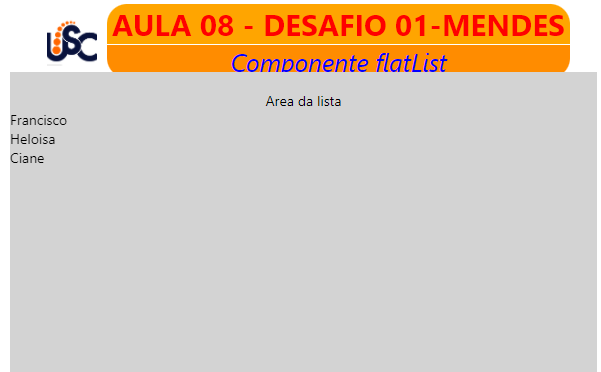
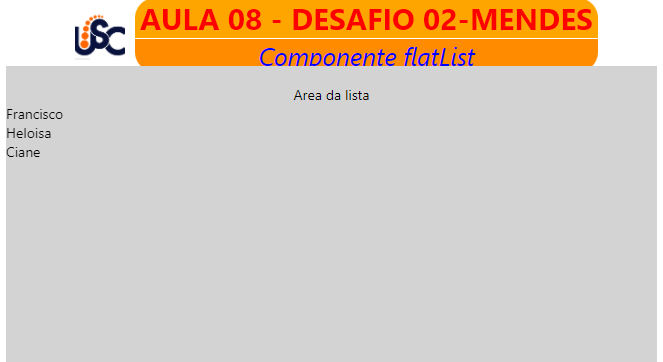
Componente Flat List.

Changed region(s): [[0.0, 0.0, 1.0, 1.0], [0.4193, 0.2431, 0.5691, 0.3039]]

diff --git a/Flat_List/App.js b/Flat_List/App.js
@@ -105,7 +105,7 @@ class App extends Component {
           <Image source={require('./image/logo.PNG')}
             style={{ width: 50, height: 50, marginHorizontal: 5 }} />
           <View>
-            <Text style={estilos.titulo}>AULA 08 - DESAFIO 01-MENDES</Text>
+            <Text style={estilos.titulo}>AULA 08 - DESAFIO 02-MENDES</Text>
             <Text style={estilos.sub_titulo}>Componente flatList</Text>
           </View >
         </View >
@@ -175,14 +175,12 @@ import React, { Component } from 'react';
 import { StyleSheet, Text, View, Image, FlatList } from 'react-native';
 
 class App extends Component {
-  constructor(props)
-  {
+  constructor(props) {
     super(props);
     this.mostra_dados = this.mostra_dados.bind(this);
   };
-  mostra_dados({item})
-  {
-    return(
+  mostra_dados({ item }) {
+    return (
       <View>
         <Text>{item.nome}</Text>
         <Text>{item.email}</Text>
@@ -193,12 +191,18 @@ class App extends Component {
   }
   render() {
     let fonte_de_dados = [
-      {nome: 'Francisco Mendes', email: 'Franciscofdsmh@gmail.com',
-         curso:'Sistema de Informação', foto: './image/pessoa1.PNG'},
-      {nome: 'Fabiana Carraro', email: 'fabiana@fabiana.com.br',
-         curso: 'Redes de Computadores', foto: './image/pessoa2.PNG'},
-      {nome: 'Fernando Azambuja', email: 'fernando@fernando.com.br', 
-         curso: 'Tecnologia da Informação', foto: './image/pessoa3.PNG'}   
+      {
+        nome: 'Francisco Mendes', email: 'Franciscofdsmh@gmail.com',
+        curso: 'Sistema de Informação', foto: './image/pessoa1.PNG'
+      },
+      {
+        nome: 'Fabiana Carraro', email: 'fabiana@fabiana.com.br',
+        curso: 'Redes de Computadores', foto: './image/pessoa2.PNG'
+      },
+      {
+        nome: 'Fernando Azambuja', email: 'fernando@fernando.com.br',
+        curso: 'Tecnologia da Informação', foto: './image/pessoa3.PNG'
+      }
     ];
     return (
       <View style={estilos.area_fundo}>
@@ -206,7 +210,7 @@ class App extends Component {
           <Image source={require('./image/logo.PNG')}
             style={{ width: 50, height: 50, marginHorizontal: 5 }} />
           <View>
-            <Text style={estilos.titulo}>AULA 08 - DESAFIO 01-MENDES</Text>
+            <Text style={estilos.titulo}>AULA 08 - DESAFIO 03-MENDES</Text>
             <Text style={estilos.sub_titulo}>Componente flatList</Text>
           </View >
         </View >
@@ -299,8 +303,8 @@ class App extends Component {
          curso:'Sistema de Informação', foto: './image/pessoa1.PNG'},
       {nome: 'Fabiana Carraro', email: 'fabiana@fabiana.com.br',
          curso: 'Redes de Computadores', foto: './image/pessoa2.PNG'},
-      {nome: 'Fernando Azambuja', email: 'fernando@fernando.com.br', 
-         curso: 'Tecnologia da Informação', foto: './image/pessoa3.PNG'}  
+      {nome: 'Fernando Azambuja', email: 'fernando@fernando.com.br',
+         curso: 'Tecnologia da Informação', foto: './image/pessoa3.PNG'}
     ];
     return (
       <View style={estilos.area_fundo}>
@@ -308,7 +312,7 @@ class App extends Component {
           <Image source={require('./image/logo.PNG')}
             style={{ width: 50, height: 50, marginHorizontal: 5 }} />
           <View>
-            <Text style={estilos.titulo}>AULA 08 - DESAFIO 01-MENDES</Text>
+            <Text style={estilos.titulo}>AULA 08 - DESAFIO 03.1-MENDES</Text>
             <Text style={estilos.sub_titulo}>Componente flatList</Text>
           </View >
         </View >
@@ -373,11 +377,11 @@ const estilos = StyleSheet.create({
   }
 });
 export default App;
-*///---------------------------------------------------------------------------
+///---------------------------------------------------------------------------
 
-///----------------------------------------------------------------------------
+*///----------------------------------------------------------------------------
 //Componente FlatList....Desafio 03.2.
-//Mostrando a imagem do aluno. Posicionamento (LAYOUT).
+//Mostrando a imagem do aluno. Posicionamento (LAYOUT).  03.3
 
 import React, { Component } from 'react';
 import { StyleSheet, Text, View, Image, FlatList } from 'react-native';
@@ -435,7 +439,7 @@ class App extends Component {
           <Image source={require('./image/logo.PNG')}
             style={{ width: 50, height: 50, marginHorizontal: 5 }} />
           <View>
-            <Text style={estilos.titulo}>AULA 08 - DESAFIO 01-MENDES</Text>
+            <Text style={estilos.titulo}>AULA 08 - DESAFIO 3.2 e 3.3 -MENDES</Text>
             <Text style={estilos.sub_titulo}>Componente flatList</Text>
           </View >
         </View >
